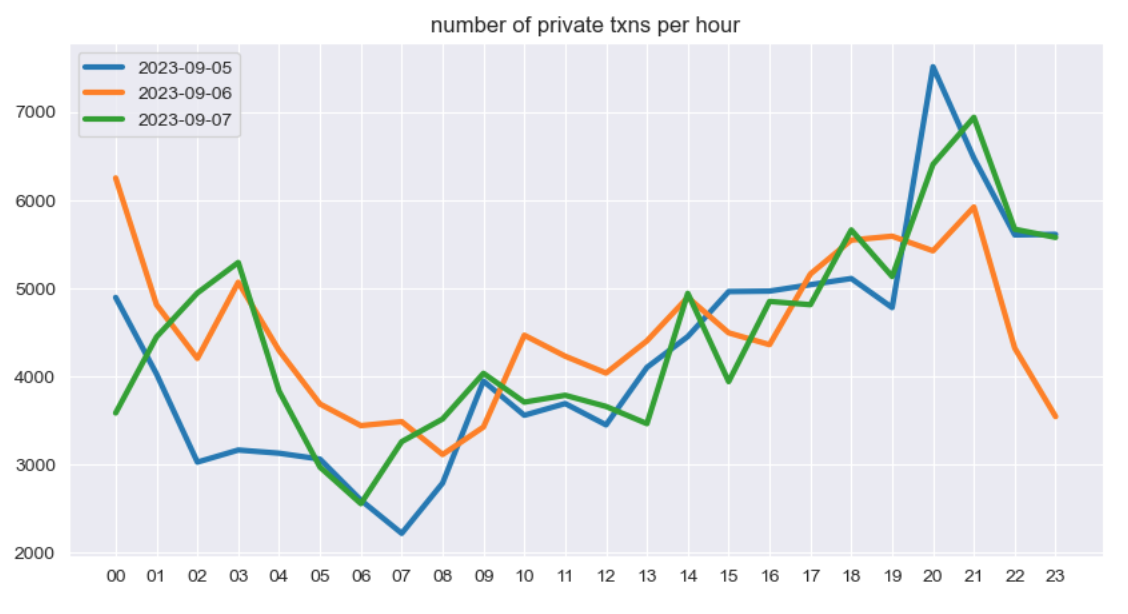
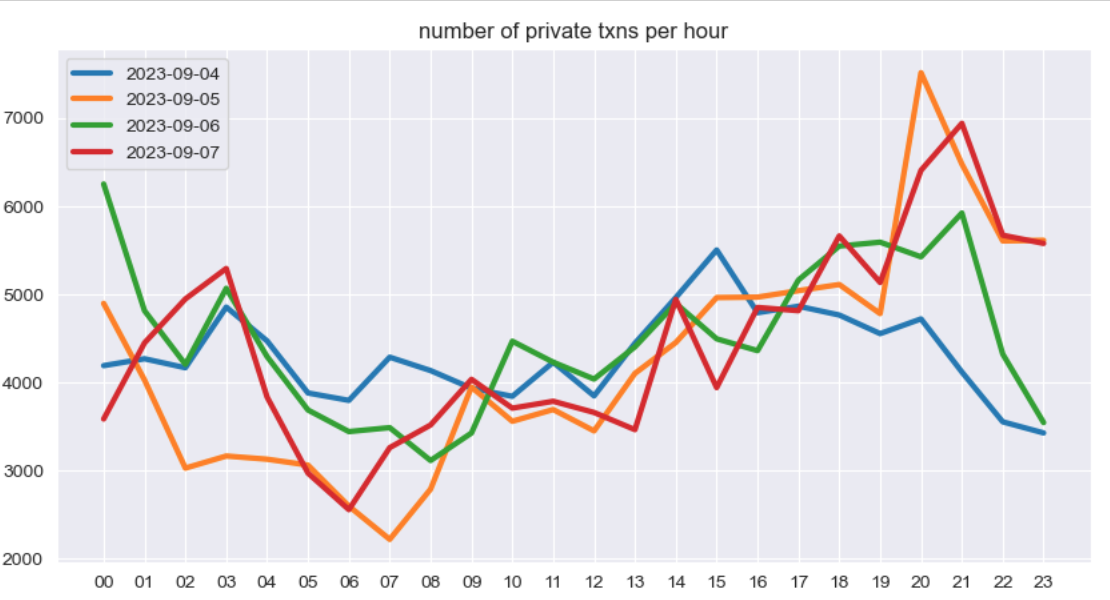
modified

diff --git a/camcos.html b/camcos.html
@@ -15,47 +15,125 @@
 
     <div class="body">
         <h1>
-            Blockchain Ethereum Research
+            Ethereum Blockchain Research
         </h1>
 
         <!-- Introduction -->
         <section>
             <h2>I. Introduction</h2>
-            <p> <span class = 'span'> </span> This project is a part of the CAMCOS (Center for Applied Mathematics, 
-                Computation and Statistics) course offered by the Department of Mathematics and Statistics 
-                at San Jose State University. <br>
-                
-                <span class = 'span'> </span>  In this project, we are divided into two teams, a data and a theory 
-                team. While data team gathers data from BlockNative and performs data analysis and manipulation,
-                theory team uses the information in addition to throughout researches about Ethereum blockchain system
-                to analyze a possible solution, a forward inclusion list (FIL) design, imposed for censorship resistance. While
-                the main project can be found <a href="https://github.com/krzhang/camcos/tree/main/CAMCOS_2023F/Data_Exploration" target="_blank">here</a>, 
-                I have put together a side analysis myself to find important insights that could help me with the research.
+            <p> <span class = 'span'> </span> As part of the CAMCOS (Center for Applied Mathematics, 
+                Computation, and Statistics) course, this project is conducted by the Department 
+                of Mathematics and Statistics at San Jose State University, with sponsorship from 
+                Ethereum researchers. The primary objective is to attain censorship resistance.<br>
+
+                <span class = 'span'> </span> Within this project, we are organized into two teams: a data team and a theory team. The data team is 
+                responsible for collecting data from BlockNative, conducting data analysis, and performing data 
+                manipulation. Meanwhile, the theory team utilizes this information, along with comprehensive research 
+                on the Ethereum blockchain system, to analyze a potential solution—specifically, a forward inclusion 
+                list (FIL) design intended to enhance censorship resistance. While the primary project details can be accessed  
+                <a href="https://github.com/krzhang/camcos/tree/main/CAMCOS_2023F/Data_Exploration" target="_blank">here</a>, 
+                I have independently conducted a supplementary analysis to uncover crucial insights that may contribute to the overall 
+                research effort as a theory team member.
             </p>
+
         </section>
 
 
         <!-- Data Aggregating -->
         <section>
-            <h2> II. Data Aggregating</h2>
-            <p><span class = 'span'> </span> Firstly, I included the data in four days, September 4, 5 ,6, and 7. Then, 
-            I combined them as a same csv file.</p>
+            <h2> II. Data Aggregating and Processing</h2>
+            <p><span class = 'span'> </span> Firstly, I used the data files provided by the data team
+            to include the data from September 4th to September 7th for my analysis.</p>
             <img src="images/camcos-1.png" alt="">
+            <p><span class = 'span'> </span>After that, I combined the data into one csv file. 
+                The data information and data cleaning process detail can be found
+                <a href="https://github.com/PhuongHuynh9987/Ethereum-Blockchain-CAMCOS-project/blob/main/Code/Data-info-and-cleaning.ipynb" target="_blank">here. </a>
+                There was some data entry error and some unused columns dropped from the data frame that yeilds a complete table
+                containing only confirmed and failed transactions in only US-region. Here is the complete table. 
+            </p>
+            <img src="/images/camcos-3.png" alt="">
+
+
         </section>
-
-
-        <!-- Data Processing -->
-        <section>
-            <h2> III. Data Processing</h2>
-        </section>
-
 
         <!-- Data Analyzing -->
         <section>
-            <h2>IV. Data Analyzing</h2>
+            <h2>III. Data Analyzing</h2>
+            <p><span class = 'span'> </span> To explore the memory pool data, I gave myself some questions 
+                that could be answered through the data. </p>
+
+            <ul>
+                <li>How does the fluctuation in peak hours impact the base fee and mempool traffic? </li>
+                <li>Over the course of these three days, what is:</li>
+                <ol>
+                    <li> The average gas included in each block throughout a 24-hour period?
+                    <li> The base fee over a 24-hour duration?</li>
+                    <li> The amount of includable gas over the course of 24 hours?</li>
+                </ol>
+            </ul>
+                
+                
+            <p><span class = 'span'> </span>To focus on a 24-hour timeframe, I introduced an "hour" column to facilitate data 
+                grouping on an hourly basis. In the data processing phase, I utilized the confirmed transaction gas 
+                information to compute includable gas. This represents the gas available in the mempool that can be 
+                included into the current block. The algorithm involves deducting the block number at which a 
+                confirmed transaction is finalized ('curblocknumber') from the number of blocks the transaction 
+                had been waiting for inclusion. The gas from the transaction is then added to these waiting blocks, 
+                contributing to the includable gas.
+            </p>
+
+            <p><span class = 'span'> </span> After data processing, I used the information to create a dataframe that contains
+            average base fee, average includable gas per block, average blocksize (included gas in each block),
+            and average number of transaction in each block over 24 hours in those four days.</p>
+            
+            <img src="images/camcos-4.png" alt="">
+            
+            <p>Looking at the graphs, I notice that 
+                <ul>
+                    <li>the base fee reaches the highest at 3-9pm and lowest at about 1-9am, </li>
+                    <li>the block sizes (more gas in each block) are also the largest from 1 to 9pm,</li>
+                    <li>the includable gas in the mempool decreases over time as well as the number of 
+                        transactions in the mempool.</li>
+                </ul>
+            </p>
+
+            <p>The odd thing is, the block sizes are still high even though the includable gas decreases.
+                One possiblility is because of the private transaction. Private transactions are the transactions
+                that go directly to the validators without going through the mempool. I decided to seperate the
+                transactions that have the pending is zero (private transactions) and 
+                transactions that have the pending is greater than zero.  
+            </p>
+
+            <img src="images/camcos.png" alt="">
+
+           <p> The private transactions seem to stay consistent between the peaked hours and the slow hours.
+            This explains why the block sizes are high even though there is little includable gas in the mempool.
+           </p>
+
         </section>
 
-        ... to be continued!
+        <!-- Conclusion -->
+        <section>
+            <h2>IV. Conclusion</h2>
+             <p>This finding is personally meaningful to me. Private transactions uncover a hidden market working 
+            in parallel with mempool activities. This advantage gives blockchain workers the ability to create 
+            a secondary market, allowing them to bypass transactions susceptible to censorship. 
+            This presents a challenge to the censorship resistance of the Ethereum blockchain system (through topping-off market
+            and abusing the spirit of the FIL sections).
+           </p>
+
+           <p>Our team has created a comprehensive report featuring in-depth analysis supported by statistical
+            and mathematical evidence, along with effective documentation and research.
+            This <a href="https://hackmd.io/JuCR32GLTKK8I75FbYO04g">report</a> will guide readers from a brief introduction about blockchain and censorship to the FIL mechanism.
+           </p>
+        </section>
+
+      
+        <section>
+            <br>
+            <br>
+            <br>
+        </section>
     </div>
 </body>
 </html>

diff --git a/style.css b/style.css
@@ -22,12 +22,17 @@ body {
     height: 100%;
     min-height: 100vh; 
     font-family: "Montserrat", sans-serif;
-    font-size: 1.7rem; 
+    font-size: 1.6rem; 
     display: flex;
     flex-direction: column;
     justify-content: center;
     align-items: center;
 
+}
+
+ul {
+    font-weight: 100;
+    max-width: 75rem;
 }
 
 img {
@@ -60,7 +65,7 @@ a {
     font-weight: 500;
 }
 
-h1{
+h1 {
     text-align: center;
     color: var(--primary-color);
     margin-bottom: 5rem;
@@ -75,7 +80,7 @@ p {
 
 @media only screen and (max-width: 1500px) {
 
-    p {
+    p, ul {
         max-width: 65rem;
     }
 
@@ -87,7 +92,7 @@ p {
 
 @media only screen and (max-width: 1200px) {
 
-    p {
+    p, ul{
         max-width: 60rem;
     }
 
@@ -103,7 +108,7 @@ p {
         margin: 0;
     }
 
-    p {
+    p, ul {
         max-width: 45rem;
     }
 
@@ -118,7 +123,7 @@ p {
         width: 38rem;
     }
 
-    p{
+    p, ul {
         max-width: 38rem;
     }
 }
@@ -137,7 +142,7 @@ p {
     }
 
     
-    p{
+    p, ul {
         max-width: 34rem;
     }
 }
@@ -154,7 +159,7 @@ p {
     }
 
     
-    p{
+    p, ul {
         max-width: 29rem;
     }
 }
@@ -170,7 +175,7 @@ p {
     h1{
         margin-bottom: 2.5rem;
     }
-    p{
+    p, ul{
         max-width: 24rem;
     }
 }

diff --git a/main_style.css b/main_style.css
@@ -178,11 +178,11 @@ h2 a {
         grid-template-columns: 26rem 70rem;
     }
 
-    h1{
+    h1 {
         font-size: 2.8rem;
     }
 
-    h3 {
+    h3, h3 a {
         font-size: 1.6rem;
     }
 
@@ -222,7 +222,6 @@ h2 a {
 @media only screen and (max-width: 1500px) {
     .body {
         grid-template-columns: 27rem 55rem;
-        /* font-size: 1.2rem; */
     }
 
     h1 {
@@ -338,11 +337,7 @@ h2 a {
         width: 18rem;
     }
 
-    h3 {
-        font-size: 1.4rem;
-    }
-
-    h3  a{
+    h3, h3 a {
         font-size: 1.4rem;
     }
 
@@ -362,7 +357,6 @@ h2 a {
 }
 
 @media only screen and (max-width: 430px) {
-    
     /* projects */
     .project {
         grid-template-columns: 18rem;
@@ -372,11 +366,7 @@ h2 a {
         width: 15rem;
     }
 
-    h3 {
-        font-size: 1.1rem;
-    }
-
-    h3 a{
+    h3, h3 a {
         font-size: 1.1rem;
     }
 
